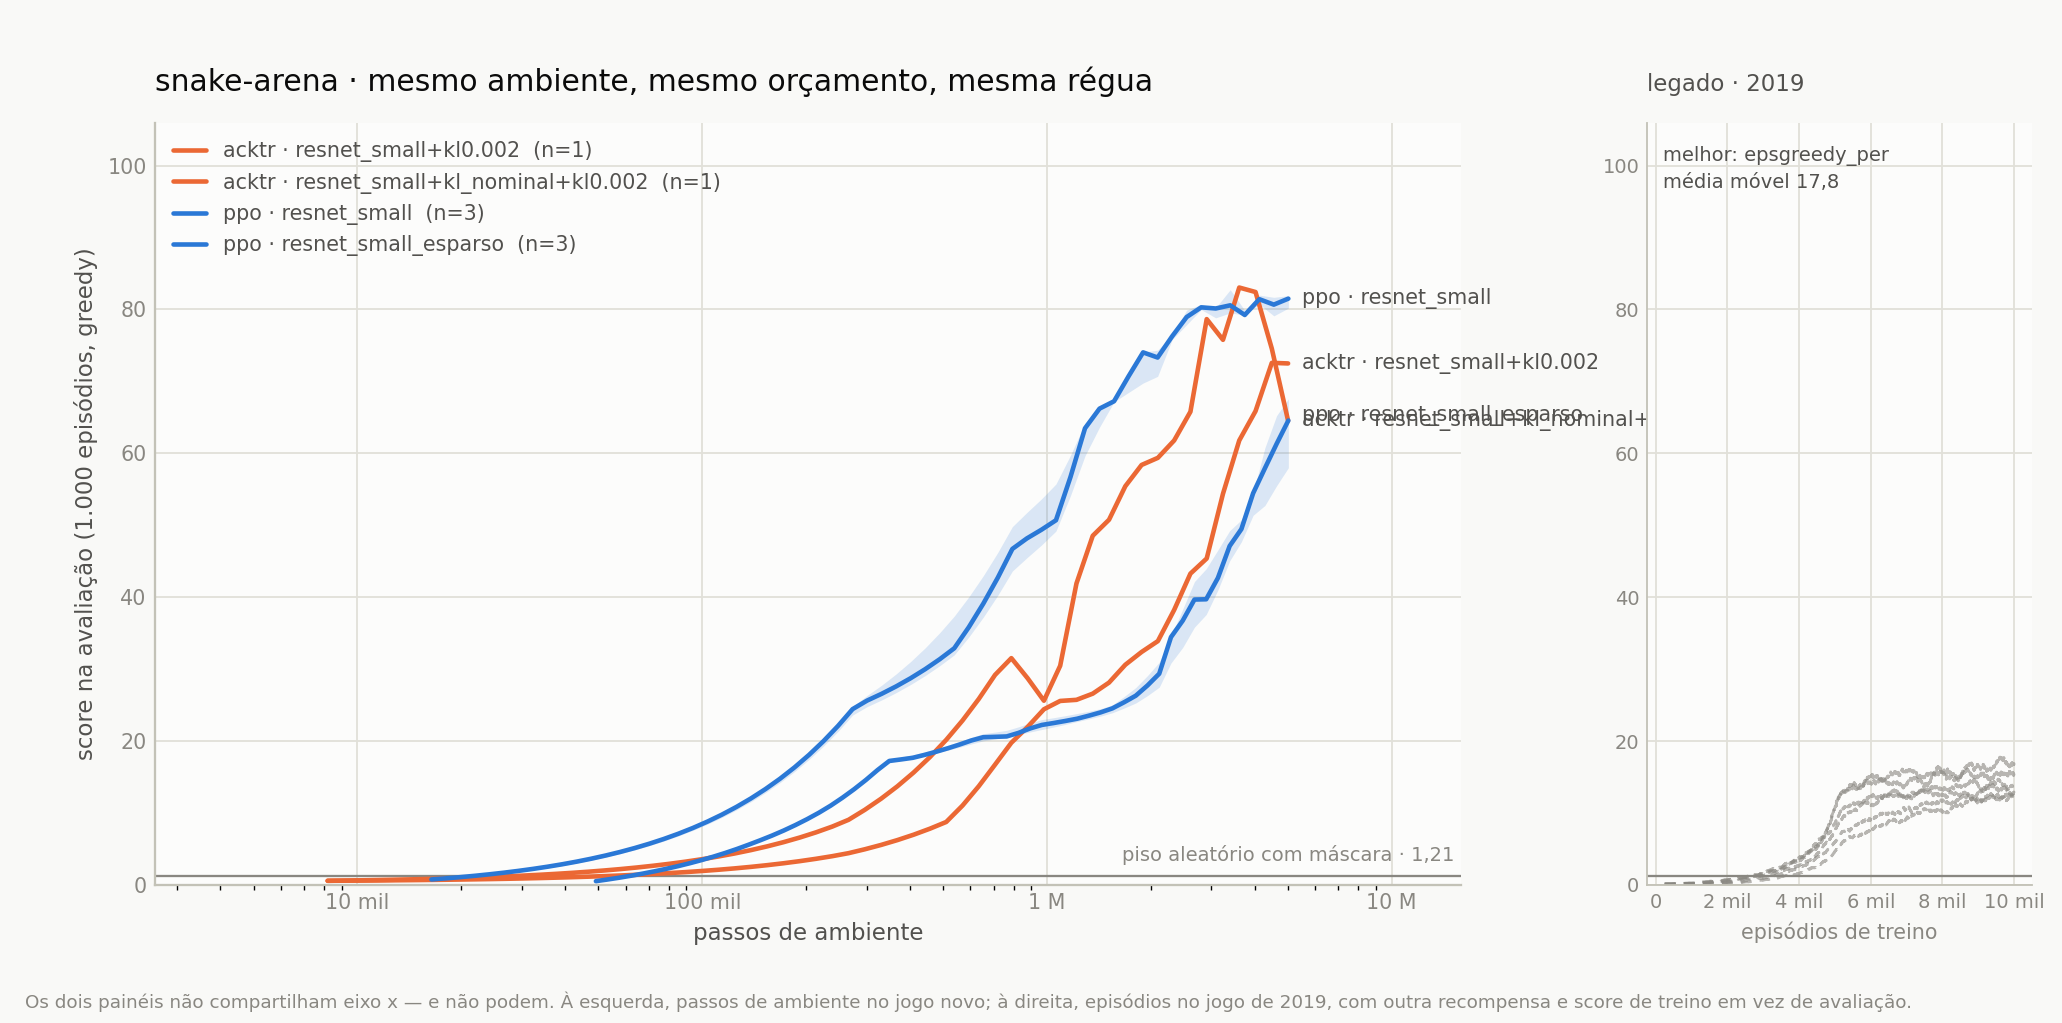
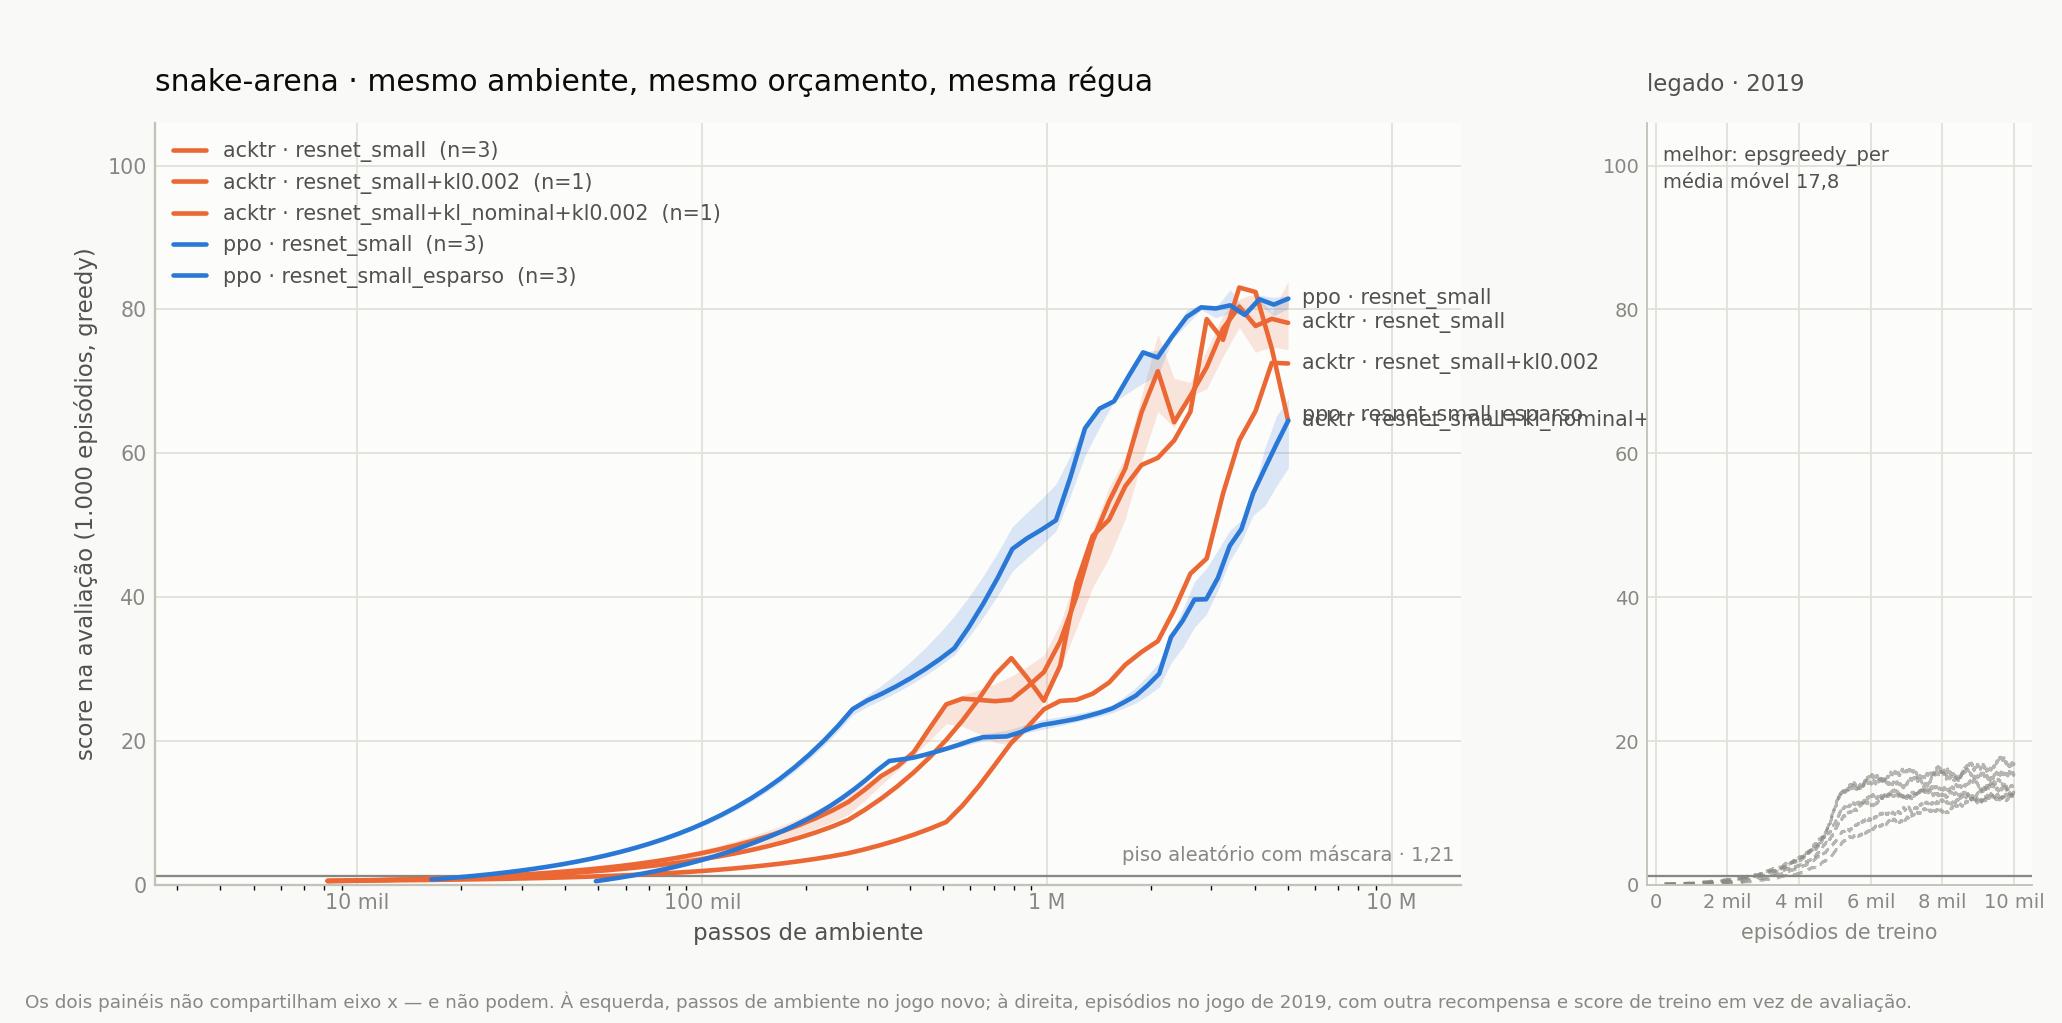
Normalize ACKTR resnet_small runs
Renames the ACKTR resnet_small variants to the canonical run paths, updates their history metadata to comparable=true, and refreshes the published results table and caveats. This also updates the arena PNG assets used in the docs.

diff --git a/docs/RESULTADOS.md b/docs/RESULTADOS.md
@@ -8,6 +8,7 @@ Gerado por `python -m snakeai.arena --all`. Não editar à mão.
 |---|---|---|---:|---:|---:|---:|---:|---:|---:|---:|---:|---:|
 | _piso aleatório_ | — | — | — | 0 | **1,21** | — | — | — | — | 1 | — | 0% |
 | ppo · resnet_small | `resnet_small` | 180,464 | 3 | 5,013,504 | **81.50** | 81.98 | 802,816 | 0.9 | ±3.45 | 97 | 97 | 61.4% |
+| acktr · resnet_small | `resnet_small` | 180,464 | 3 | 5,005,312 | **78.13** | 85.84 | 1,277,952 | 0.5 | ±19.11 | 97 | 97 | 60.7% |
 | acktr · resnet_small+kl0.002 | `resnet_small` | 180,464 | 1 | 5,005,312 | **72.50** | 74.19 | 2,547,712 | 0.5 | ±0.00 | 75 | 97 | 28.9% |
 | ppo · resnet_small_esparso | `resnet_small` | 180,464 | 3 | 5,013,504 | **64.56** | 62.72 | 2,703,360 | 0.4 | ±19.15 | 71 | 97 | 0.0% |
 | acktr · resnet_small+kl_nominal+kl0.002 | `resnet_small` | 180,464 | 1 | 5,005,312 | **64.53** | 84.92 | 1,277,952 | 0.5 | ±0.00 | 69 | 97 | 26.7% |
@@ -46,7 +47,6 @@ não é o carimbo que ficou gravado no dia do treino. Execuções marcadas
 `comparable=False` também aparecem aqui: elas não competem por construção,
 e some-las seria pior do que incluí-las.
 
-- `acktr/resnet_small+sondagem/seed0`: comparable=False: sondagem de semente única que escolheu `kl_max=0,015`; a série oficial de três sementes foi refeita no pacote congelado
 - `acktr/resnet_small_regua_antiga/seed0`: comparable=False: medida com o protocolo de avaliação anterior a 14/08: sem as chaves de causa de fim, com a maçã do episódio vencedor faltando (score_max 96 num tabuleiro cujo perfeito é 97) e com `win_rate` de outra fórmula. Mantida como registro histórico; a semente 0 na régua atual está em `acktr/resnet_small/seed0`.
 - `dqn/base/seed0`: comparable=False: treinada antes da correção do truncamento por fome (§1.1 da revisão): a fome entrava no buffer como terminação e o `next_obs` gravado era o do episódio seguinte. 34,3% dos episódios finais terminaram por inanição — o sintoma que a correção ataca. Mantida como registro do 'antes'; refazer com o pacote corrigido.
 - `ppo/resnet_small_fome_esparso/seed0`: comparable=False: observação com 6 canais (fome), fora do contrato de 5; orçamento de gradiente esparso (~2.400 atualizações), que era o padrão quando a ablação foi medida
